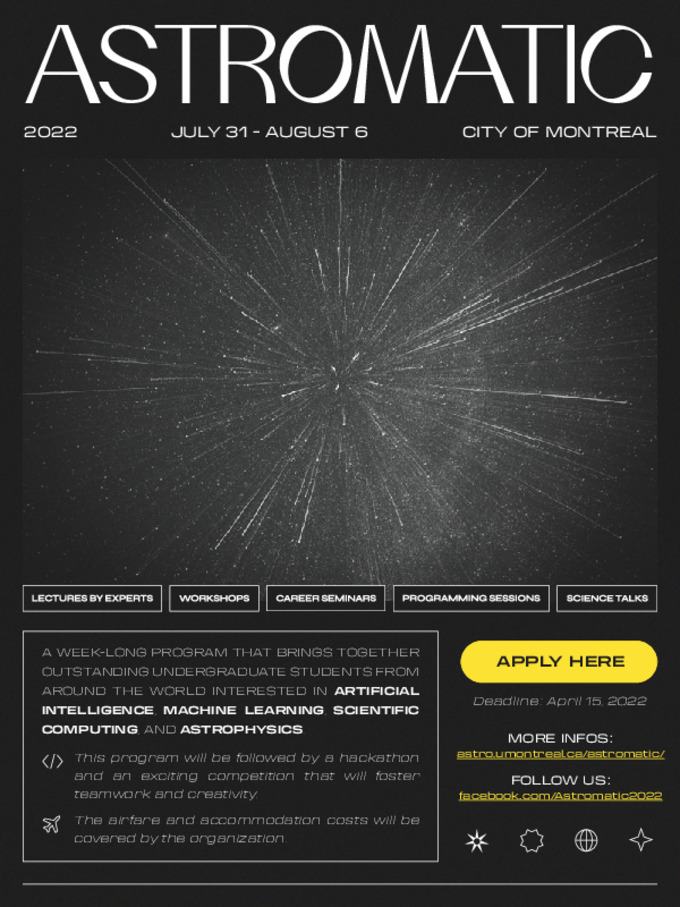
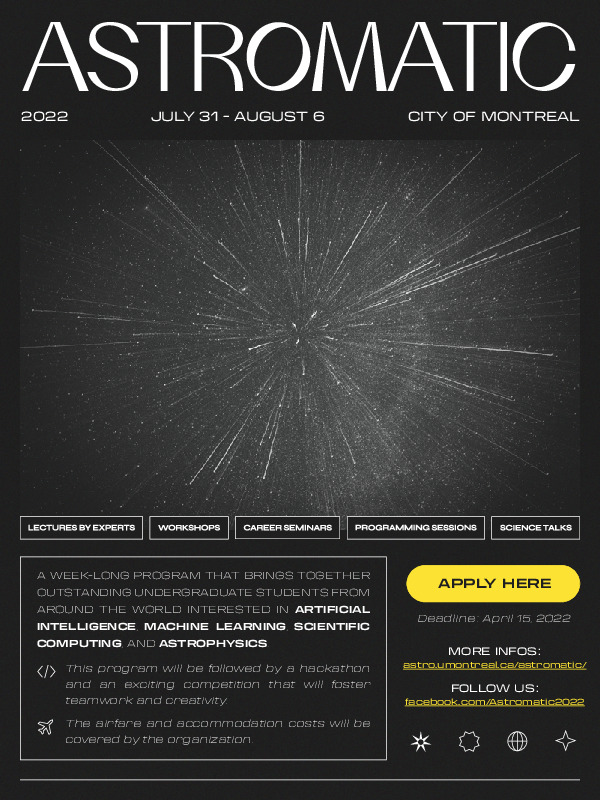
Resized again poster

diff --git a/README.md b/README.md
@@ -15,5 +15,5 @@ learning, scientific computing, and astrophysics. A number of social events are 
 to foster team building and networking. The program will conclude with the 
 showcasing of projects, including an award presentation for the most outstanding works.
 
-<img src="https://raw.githubusercontent.com/ParsecInstitute/Astromatic2022/main/.github/images/poster.jpg" alt="" style="height: 1000px; width:1000px;"/>
+<img src="https://raw.githubusercontent.com/ParsecInstitute/Astromatic2022/main/.github/images/poster.jpg" alt="" style="height: 800px; width:600px;"/>
 
